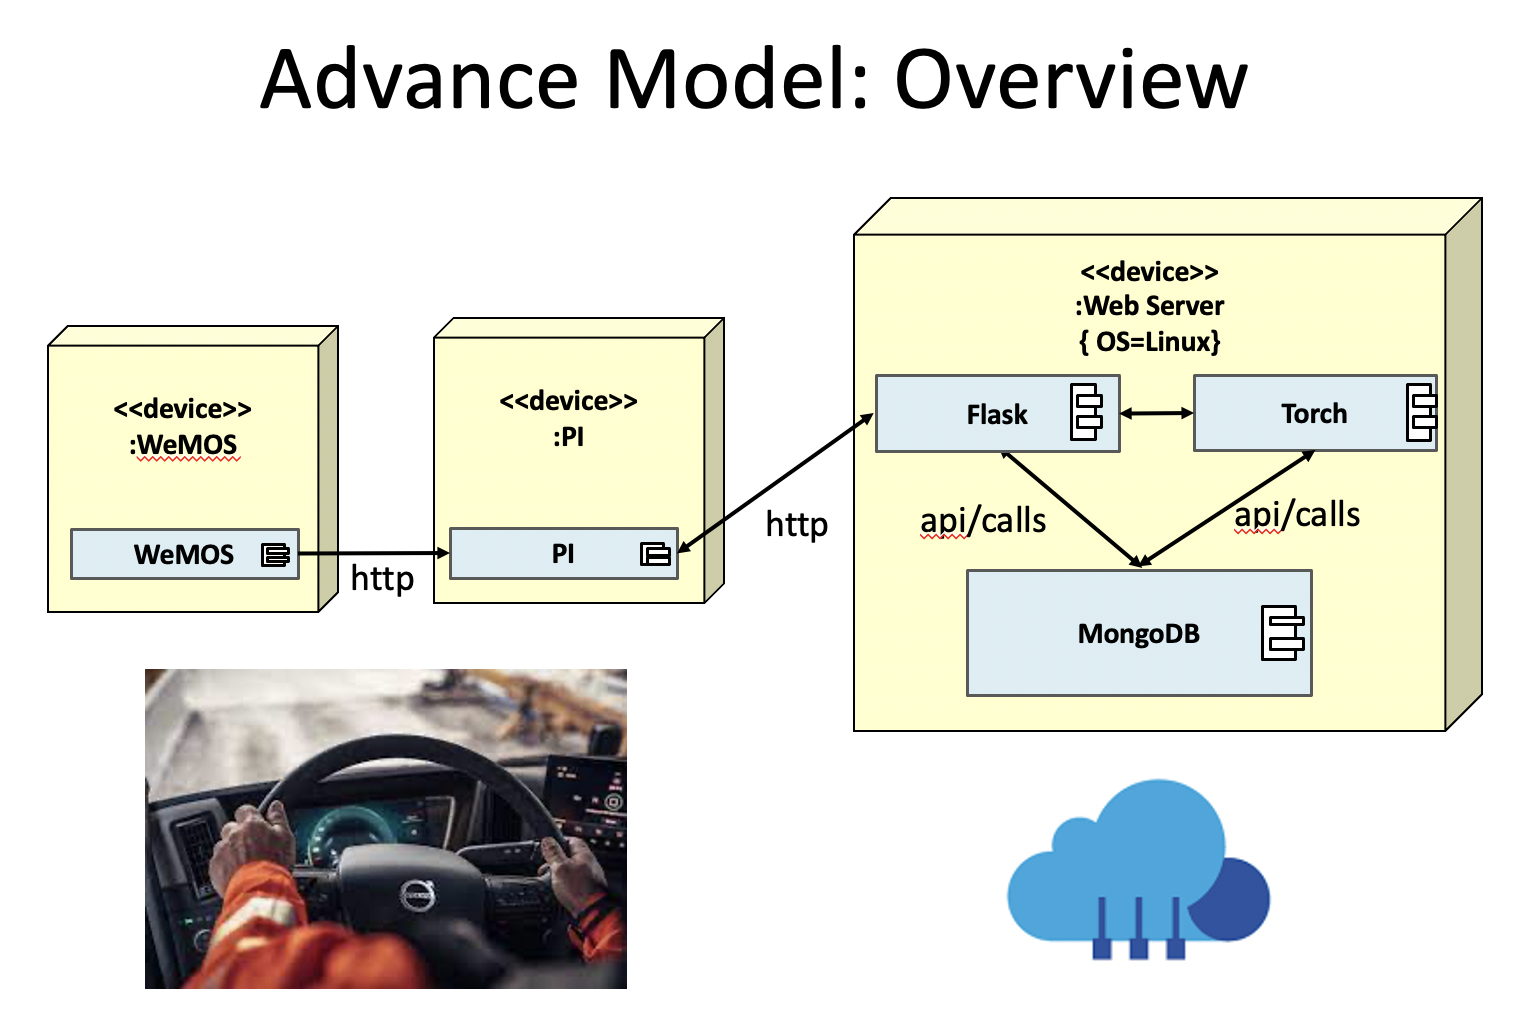
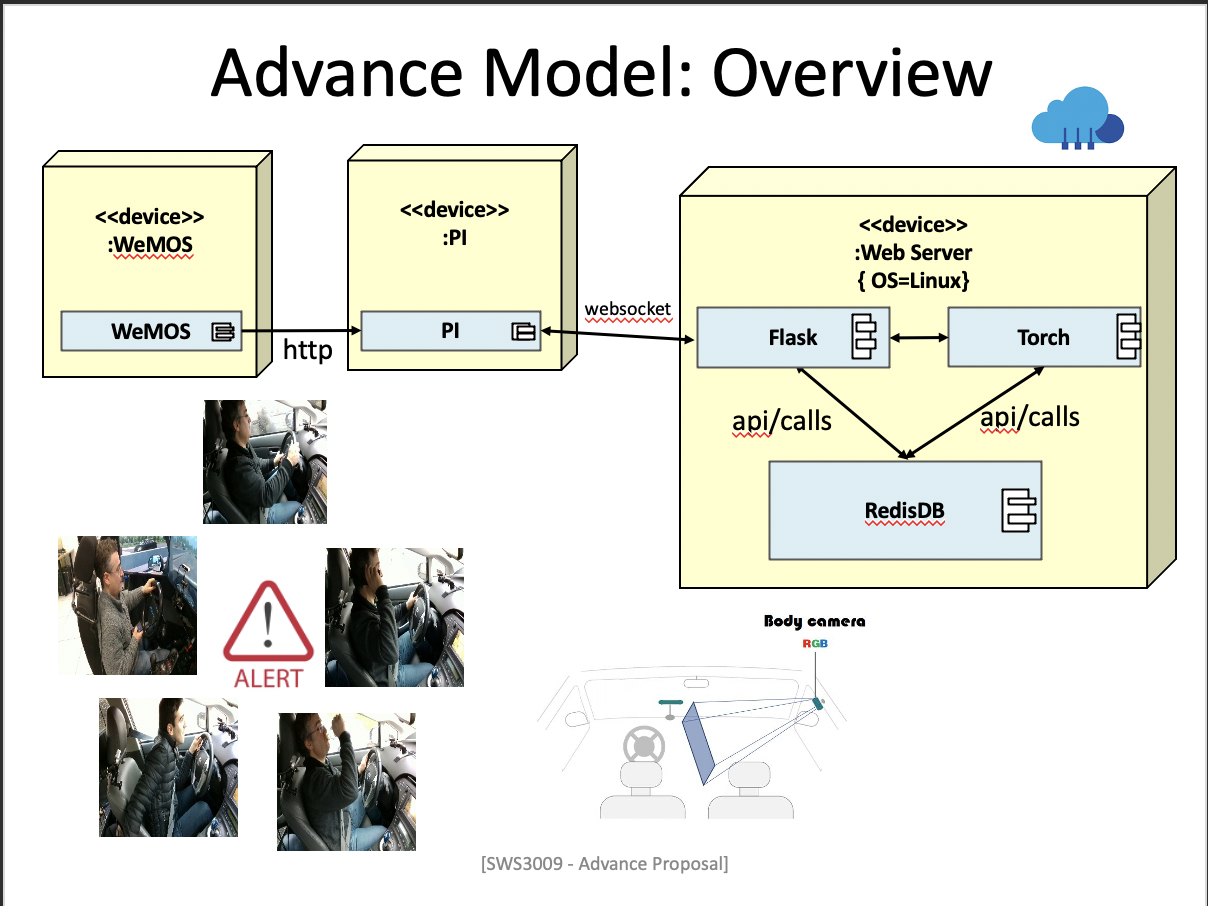
update Readme.md

diff --git a/communication/client/client.py b/communication/client/client.py
@@ -15,22 +15,23 @@ write_lock = False
 
 @sio.event
 def connect():
-    print('[INFO] Successfully connected to server.')
+    print('\033[32m[INFO]\033[0mSuccessfully connected to server.')
 
 
 @sio.event
 def connect_error():
-    print('[INFO] Failed to connect to server.')
+    print('\033[32m[INFO]\033[0mFailed to connect to server.')
 
 
 @sio.event
 def disconnect():
-    print('[INFO] Disconnected from server.')
+    print('\033[32m[INFO]\033[0mDisconnected from server.')
 
 
 @sio.on('results', namespace='/s2c')
 def save_result(message):
-    print('[Results Retriever]Received a result from server. Updata the results.')
+    print('\033[34m[Results Retriever]\033[0mReceived the lastest results from server.')
+    print('\033[34m[Results Retriever]\033[0m %s' % message)
 
     global results_file, write_lock
     if results_file is None:
@@ -58,7 +59,7 @@ class CVClient(object):
         self.count = 0
 
     def setup(self):
-        print('[INFO] Connecting to server http://{}:{}...'.format(
+        print('\033[32m[INFO]\033[0mConnecting to server http://{}:{}...'.format(
             self.server_addr, self.server_port))
 
         # Channel c2s for client sending video stream
@@ -91,7 +92,7 @@ class CVClient(object):
                     },
                     namespace='/c2s')
             self.count += 1
-            print('[Frames Sender]Sended the %d frame to the server.' % self.count)
+            print('\033[33m[Frames Sender]\033[0mSended the %d frame to the server.' % self.count)
 
     def check_exit(self):
         pass
@@ -103,7 +104,7 @@ class CVClient(object):
 class Camera(object):
 
     def __init__(self, fps=30, video_source=0, streamer=None, cam_width=640, cam_height=480):
-        print(f"[Camera Capturer]Initializing camera class with {fps} fps and video_source={video_source}")
+        print("\033[36m[Camera Capturer]\033[0mInitializing camera class with {%d} fps and video_source={%d}" % (fps, video_source))
         self.fps = fps
         self.video_source = video_source
         self.camera = cv2.VideoCapture(self.video_source)
@@ -121,7 +122,7 @@ class Camera(object):
         self.sending_thread = None
         
     def run(self):
-        print("[Camera Capturer]Perparing capture_thread and sending_thread.")
+        print("\033[36m[Camera Capturer]\033[0mPerparing capture_thread and sending_thread.")
     
         # print("[INFO]Creating capture_thread")
         self.capture_thread = threading.Thread(target=self._capture_loop,daemon=True)
@@ -133,10 +134,10 @@ class Camera(object):
 
         self.capture_thread.start()
         self.sending_thread.start()
-        print("[Camera Capturer]Threads started")
+        print("\033[36m[Camera Capturer]\033[0mThreads started")
 
     def _capture_loop(self):
-        print("[Camera Capturer]Camera observation started")
+        print("\033[36m[Camera Capturer]\033[0mCamera observation started")
         while self.isrunning:
             v,frame = self.camera.read()
             if v:
@@ -151,12 +152,12 @@ class Camera(object):
                 self.streamer.send_data(frame, ['success'])
 
     def stop(self):
-        print("[Camera Capturer]Stopping capture_thread and sending_thread")
+        print("\033[36m[Camera Capturer]\033[0mStopping capture_thread and sending_thread")
         self.isrunning = False
         self.release()
     
     def release(self):
-        print("[Camera Capturer]Released camera")
+        print("\033[36m[Camera Capturer]\033[0mReleased camera")
         self.camera.release()
 
 
@@ -170,7 +171,7 @@ class Retriever(object):
         self.isrunning = False
 
     def run(self):
-        print("[Retriever]Perparing retrieve_thread.")
+        print("\033[34m[Results Retriever]\033[0mPerparing retrieve_thread.")
     
         # print("[Retriever]Creating retrieve_thread")
         self.retrieve_thread = threading.Thread(target=self.__retrieve_results,daemon=True)
@@ -179,7 +180,7 @@ class Retriever(object):
         self.isrunning = True
 
         self.retrieve_thread.start()
-        print("[Retriever]Threads started.")
+        print("\033[34m[Results Retriever]\033[0mThreads started.")
 
     def __retrieve_results(self):
         while True:
@@ -187,11 +188,11 @@ class Retriever(object):
                 break
             time.sleep(self.time_interval)
             sio.emit('get_results', 'Give me the current results!', namespace='/s2c')
-            print('[Retriever]Retrieve results from the server.')
+            print('\033[34m[Results Retriever]\033[0mRetrieve results from the server.')
 
     
     def stop(self):
-        print("[Retriever]Stopping retrieve_thread")
+        print("\033[34m[Results Retriever]\033[0mStopping retrieve_thread")
         self.isrunning = False
 
             
@@ -214,7 +215,7 @@ def main(camera, server_addr, stream_fps, cam_width, cam_height):
 
 
     except KeyboardInterrupt:
-        print("[INFO]Exiting...")
+        print("\033[32m[INFO]\033[0mExiting...")
 
     finally:
         end = time.time()
@@ -228,10 +229,10 @@ def main(camera, server_addr, stream_fps, cam_width, cam_height):
         if results_file is not None:
             results_file.close()
 
-        print("[INFO]elapsed time: {:.2f}".format(end-start))
-        print("[INFO]approx. FPS: {:.2f}".format(streamer.count/(end-start)))
+        print("\033[32m[INFO]\033[0melapsed time: {:.2f}".format(end-start))
+        print("\033[32m[INFO]\033[0mapprox. FPS: {:.2f}".format(streamer.count/(end-start)))
 
-        print("[INFO]Program Ending")
+        print("\033[32m[INFO]\033[0mProgram Ending")
 
 
 if __name__ == "__main__":

diff --git a/communication/server/server.py b/communication/server/server.py
@@ -11,6 +11,7 @@ import re
 import numpy as np
 from queue import Queue
 from predict import load_model, predict
+import time
 
 app = Flask(__name__)
 app.config['REDIS_URL'] = 'redis://127.0.0.1:6379/0'
@@ -36,38 +37,34 @@ def index():
 
 @socketio.on('connect', namespace='/web')
 def connect_web():
-    print('\033[33m[INFO]Web client connected: {}\033[0m'.format(request.sid))
+    print('\033[32m[INFO]\033[0mWeb client connected: {}'.format(request.sid))
 
 
 @socketio.on('disconnect', namespace='/web')
 def disconnect_web():
-    print('\033[33m[INFO]Web client disconnected: {}'.format(request.sid))
+    print('\033[32m[INFO]\033[0mWeb client disconnected: {}'.format(request.sid))
 
 
 @socketio.on('connect', namespace='/c2s')
 def connect_cv():
     # join_room('frame_senders', sid=request.sid)
-    print('\033[33m[INFO]CV client connected: {} on c2s namespace.'.format(request.sid))
-
-    global MODEL
-    if MODEL is None:
-        model_setup()
+    print('\033[32m[INFO]\033[0mCV client connected: {} on c2s namespace.'.format(request.sid))
 
 
 @socketio.on('disconnect', namespace='/c2s')
 def disconnect_cv():
     # leave_room('frame_senders', sid=request.sid)
-    print('\033[33m[INFO]CV client disconnected: {} on c2s namespace'.format(request.sid))
+    print('\033[32m[INFO]\033[0mCV client disconnected: {} on c2s namespace.'.format(request.sid))
 
 @socketio.on('connect', namespace='/s2c')
 def connect_cv():
     # join_room('result_receivers', sid=request.sid)
-    print('\033[33m[INFO]CV client connected: {} on s2c namespace.'.format(request.sid))
+    print('\033[32m[INFO]\033[0mCV client connected: {} on s2c namespace.'.format(request.sid))
 
 @socketio.on('disconnect', namespace='/s2c')
 def disconnect_cv():
     # leave_room('result_receivers', sid=request.sid)
-    print('\033[33m[INFO]CV client disconnected: {} on s2c namespace'.format(request.sid))
+    print('\033[32m[INFO]\033[0mCV client disconnected: {} on s2c namespace.'.format(request.sid))
 
 
 @socketio.on('get_results', namespace='/s2c')
@@ -75,7 +72,7 @@ def send_results(message):
     results = redis_client.get('results')
 
     if results is not None:
-        print("\033[34m[Results Replier]Sending results to the client.")
+        print("\033[34m[Results Replier]\033[0mSending results to the client.")
         socketio.emit('results', results, namespace='/s2c')
 
 
@@ -91,7 +88,7 @@ def handle_cv_message(message):
     if frames_count % 70 == 0:
         video_buffer.put((frames_buffer, clips_count))
 
-        print('\033[33m[Clips Dumper] worker_save_video thread started.')
+        print('\033[33m[Clips Dumper]\033[0mA video saving thread is started.')
         worker_save_video = threading.Thread(target=save_video, daemon=True, args=(video_buffer.get()))
         worker_save_video.start()
         
@@ -113,9 +110,8 @@ def save_video(frames, clips_count):
         videoWriter.write(frame)
         count += 1
 
-    print('total count %d' % count)
     videoWriter.release()
-    print("\033[33m[Clips Dumper] the %s video clip has saved." % save_path+clip_file_name)
+    print("\033[33m[Clips Dumper]\033[0mThe %s video clip has saved." % save_path+clip_file_name)
 
     model_predict(save_path+clip_file_name)
 
@@ -133,7 +129,9 @@ def model_setup():
     global MODEL
     if MODEL is None:
         MODEL = load_model()
-        print('\033[35m[Model Predictor]The MODEL has already loaded.')
+        print('\033[35m[Model Predictor]\033[0mThe MODEL has loaded.', flush=True)
+    else:
+        print('\033[35m[Model Predictor]\033[0mThe MODEL has already loaded.')
 
 
 def model_predict(video_path):
@@ -141,19 +139,18 @@ def model_predict(video_path):
     if MODEL is None:
         model_setup()
     
-    print('\033[35m[Model Predictor]Start to predict video %s' % video_path.split('/')[-1])
+    print('\033[35m[Model Predictor]\033[0mStart to predict video %s' % video_path.split('/')[-1])
     result = predict(MODEL, video_path)
 
     clip_index = re.split('[_./]', video_path)[-2]
 
     data = clip_index + '-' + result[0] +  '-' + '%.2f'%result[1] + ';'
 
-    print('\033[35m[Model Predictor]Start to save the result.')
+    print('\033[35m[Model Predictor]\033[0mStart to save the result.')
     save_result(data)
 
 
 def save_result(new_results):
-    print(save_result)
 
     previous_results = redis_client.get('results')
 
@@ -162,15 +159,20 @@ def save_result(new_results):
     else:
 
         new_results = previous_results + new_results
-        print(new_results)
+    
 
     redis_client.set('results', new_results)
-    print('\033[35m[Model Predictor]The result has updated.')
+    print('\033[35m[Model Predictor]\033[0mThe result has updated.')
 
 
 
 if __name__ == "__main__":
     server_ip = '127.0.0.1'
     port = 5001
-    print('[INFO] Starting server at http://{}:{}'.format(server_ip, port))
+    print('\033[32m[INFO]\033[0mStarting server at http://{}:{}'.format(server_ip, port))
+    print('\033[32m[INFO]\033[0mPlease wait for Model to loaded...')
+    if MODEL is None:
+        model_setup()
+
+    print("\033[32m[INFO]\033[0mStart listening to clients' connection...")
     socketio.run(app=app, host=server_ip, port=port)

diff --git a/Readme.md b/Readme.md
@@ -28,7 +28,7 @@
 
  What we are going to do is distracted driver detection. On the embedded system side, we would use the camera to record the driver's behavior, and dump the video every 5s or 10s. Our current solution is to extract frames of this video under a proper time step in Raspberry Pi, and then send these packaged images to the server side as the raw input for the model prediction. The problem on this side is how to achieve a near real-time dectection. Because the Pi need to wait for the model's results and warn the driver through the buzzer.
 
-<img src="Readme.assets/overview.png" alt="Overview.png" style="zoom:50%;" />
+<img src="Readme.assets/overview.png" alt="overview" style="zoom:50%;" />
 
 
 ## 2 相关研究
@@ -57,8 +57,10 @@
 
   [An Image is Worth 16x16 Words: Transformers for Image Recognition at Scale (2020 oct)](https://arxiv.org/abs/2010.11929)
 
-  https://www.jiqizhixin.com/articles/2020-10-05-4
+  [ViViT: A Video Vision Transformer](https://arxiv.org/abs/2103.15691)
 
+  https://www.jiqizhixin.com/articles/2020-10-05-4
+  
   https://www.jiqizhixin.com/articles/2020-05-28-9?fbclid=IwAR3ZMsqDOk5MDBUaGREMEiEMd05ucDViOwALWxGjBgBwdbMeGvlCfKDximg
 
 ### 2.3 Others 其他
@@ -85,11 +87,11 @@ A Guide to Action Recognition (2018) :
 
   **是端到端的训练还是特征提取与分类分开进行**
 
-### 3.2 Simple Vision Transformer model
+### 3.2 Vision Transformer model
 
-+ Vision Transformer
+In the ViDDD model, our input video intercepts 70 consecutive frames of pictures, and each image enters the same ViT model in sequence. For the 70 predicted values, we carry out simple statistics. Calculate the number of predictions for each model category. The largest category was then selected as the predicted result of the video.
 
-  <img src="Readme.assets/ViT_baseline.png" alt="image-20210723140042218" style="zoom: 67%;" />
+![model](Readme.assets/model.png)
 
 ## 4 Experiments
 
@@ -122,25 +124,19 @@ A Guide to Action Recognition (2018) :
 
 ### 4.2 Experiments and results
 
-### 4.2.1 Exp1 
+<img src="Readme.assets/result1.png" alt="result1" style="zoom:48%;" />
 
-+ exp targets: main architecture
-+ dataset 
-+ data Preprocess
-+ network
-+ results
-
-
-
-
-
-
-
-
+<img src="Readme.assets/result2.png" alt="result2" style="zoom:50%;" />
 
 
 
 ## 5 Communication Architecture
+
+To bridge the deep learning side and embedded system side, we need to build a real-time communication system for video uploading and results feedback.
+
+For real-time video uploading, on the client-side, camera capturers will continuously get frames from the camera embedded on the Pi. Frames senders are in charge of keeping sending frames to the server through the “video Steam sending” pipe. Once the frames reach the server-side, frames receivers will save them into a buffer. Every 70 frames in the buffer would be popped by clips dumper and write into a video clip. Model predictor would predict it and save the result to the Redis database.
+
+At the same time, to obtain the results from the prediction model, result retrievers would query the server for the prediction results every 5s through the “Result Returning” pipe. Results replier on the server-side would look up in the database and return it.
 
 ![communication](Readme.assets/communication.png)
 
